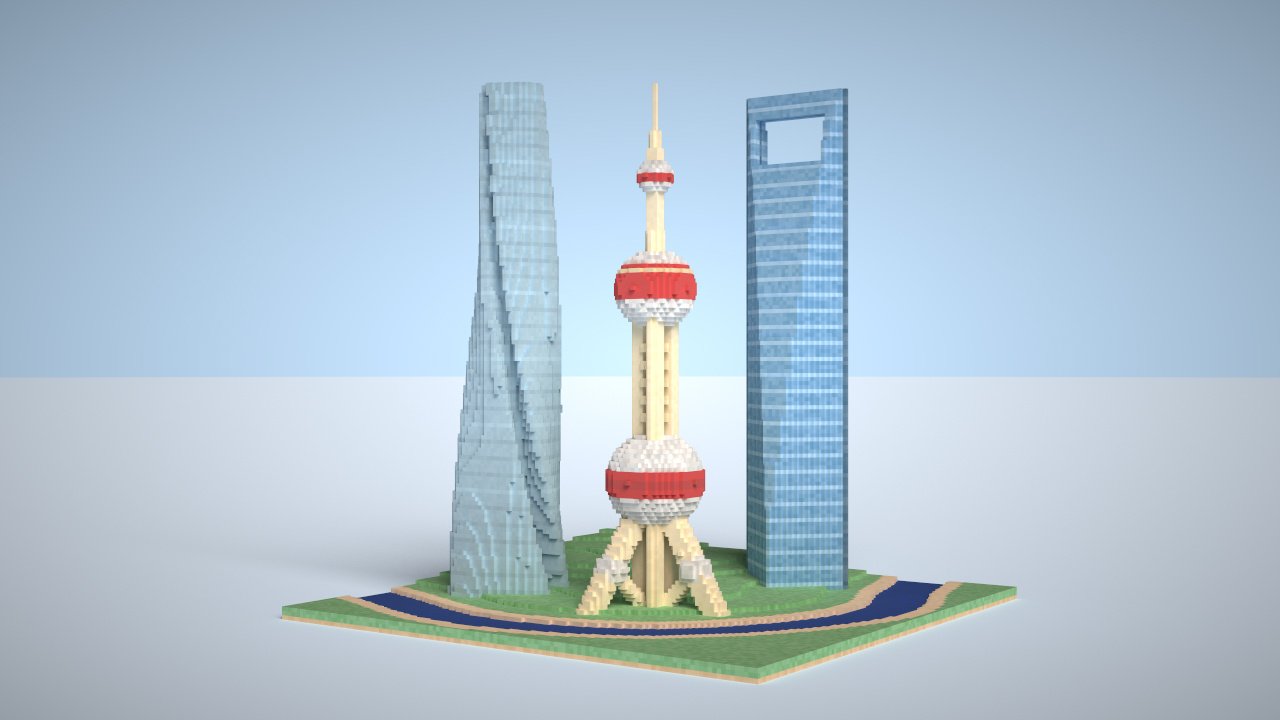
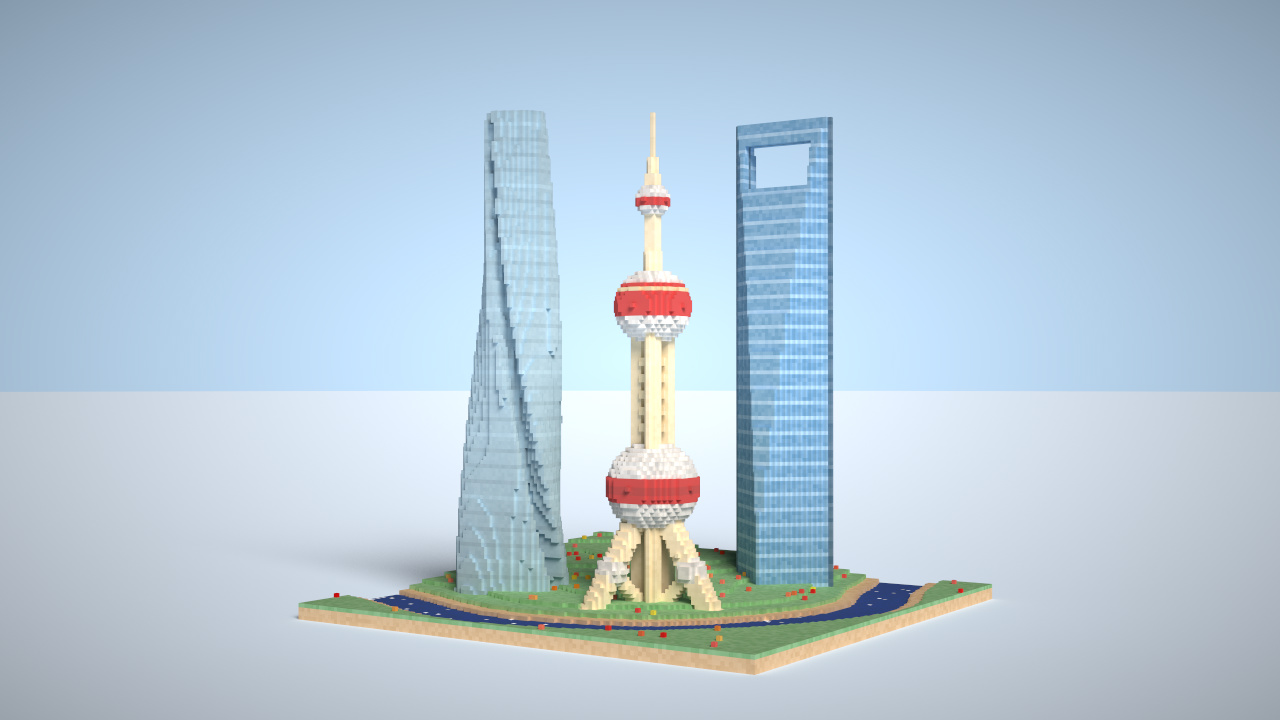
Update Shanghai

Changed region(s): [[0.2188, 0.0917, 0.8125, 0.9472], [0.1875, 0.5194, 0.25, 0.55], [0.7812, 0.5194, 0.8125, 0.55]]

diff --git a/shanghai.py b/shanghai.py
@@ -1,9 +1,9 @@
 from scene import Scene; import taichi as ti; from taichi.math import *
 
-scene = Scene(0, 1.2)
+scene = Scene(0, 1.25)
 scene.set_background_color((0.6, 0.8, 1.0))
 scene.set_floor(-1, (1.3, 1.6, 2.0))
-scene.set_directional_light((1, 1, 0.75), 0.7, (1.0, 0.9, 0.8))
+scene.set_directional_light((1, 1, 0.75), 0.5, (1.0, 0.9, 0.8))
 
 @ti.func
 def set(idx, mat, color, noise = vec3(0)): scene.set_voxel(idx, mat, color + ti.random() * noise)
@@ -26,6 +26,31 @@ def coneY(p0, p1, r0, r1, mat, color, noise = vec3(0)):
 
 @ti.kernel
 def initialize():
+    for x, z in ti.ndrange((-64, 64), (-64, 64)):
+        p1 = vec2(32 - x, 35 - z); p1 = vec2(dot(p1, vec2(1.1, -1)), dot(p1, vec2(1, 1))) / ti.sqrt(2)
+        h = 0.05 * p1.y - 0.00075 * p1.x * p1.x + 0.2 * (ti.sin(0.06 * x + 0.11 * z) + ti.sin(0.09 * x + 0.07 * z))
+        if h >= 0: fill(ivec3(x, -64, z), ivec3(1, 4 + h, 1), 1, vec3(0.25, 0.5, 0.25), 0.1)
+    for x, z in ti.ndrange((-64, 64), (-64, 64)):
+        if scene.get_voxel(ivec3(x, -64, z))[0] == 0:
+            for x1, z1 in ti.ndrange((x - 14, x + 15), (z - 14, z + 15)):
+                if (x1 >= -64 and x1 < 64 and z1 >= -64 and z1 < 64 and (x1 - x) ** 2 + (z1 - z) ** 2 <= 14 ** 2 and
+            scene.get_voxel(ivec3(x1, -64, z1))[0] > 0): set(ivec3(x, -63, z), 1, vec3(0.05, 0.1, 0.3), vec3(0, 0, 0.1))
+    for x, z in ti.ndrange((-64, 64), (-64, 64)):
+        if scene.get_voxel(ivec3(x, -64, z))[0] == 0 and scene.get_voxel(ivec3(x, -63, z))[0] > 0:
+            set(ivec3(x, -64, z), 1, vec3(0.05, 0.1, 0.3), vec3(0, 0, 0.1))
+        else:
+            fill(ivec3(x, -64, z), ivec3(1, 3, 1), 1, vec3(0.7, 0.5, 0.3), 0.1)
+            set(ivec3(x, -61, z), 1, vec3(0.25, 0.5, 0.25), 0.1)
+    for x, z in ti.ndrange((-64, 64), (-64, 64)):
+        for x1, z1 in ti.ndrange((x - 4, x + 5), (z - 4, z + 5)):
+            if (x1 >= -64 and x1 < 64 and z1 >= -64 and z1 < 64 and (x1 - x) ** 2 + (z1 - z) ** 2 <= 4 ** 2
+            and scene.get_voxel(ivec3(x1, -62, z1))[0] == 0): set(ivec3(x, -61, z), 0, vec3(0))
+    for x, z in ti.ndrange((-64, 64), (-64, 64)):
+        y = -64
+        while y < 64 and scene.get_voxel(ivec3(x, y, z))[0] > 0: y += 1
+        if y <= -64 + 2 and ti.random() < 0.02: set(ivec3(x, y - 1, z), 2, vec3(0.3), 0.7)
+        elif y >= -64 + 4 and ti.random() < 0.008: set(ivec3(x, y, z), 1, vec3(0.8, 0.8 * ti.random() ** 4, 0), 0.2)
+    
     c = ivec3(8, 0, 16)
     sphere(c + vec3(0, -32, 0), 11, 1, vec3(0.6), 0.2)
     fill(c + ivec3(-16, -35, -16), ivec3(33, 6, 33), 1, vec3(0.6, 0.1, 0.1), paint = True)
@@ -59,24 +84,5 @@ def initialize():
         if ti.abs(p.x) + ti.abs(p.z) <= 14 and ti.abs(p.z) <= ((63 - p.y) / 127) ** 0.7 * 15 + 1: set(c + p, 1,
             vec3(0.1, 0.2, 0.3) if p.z == 0 else vec3(0.4, 0.6, 0.8) if p.y % 4 == 0 else vec3(0.2, 0.4, 0.6), 0.1)
     fill(c + ivec3(-10, 46, -16), ivec3(20, 12, 32), 0, vec3(0))
-    
-    for x, z in ti.ndrange((-64, 64), (-64, 64)):
-        p1 = vec2(32 - x, 35 - z); p1 = vec2(dot(p1, vec2(1.1, -1)), dot(p1, vec2(1, 1))) / ti.sqrt(2)
-        h = 0.05 * p1.y - 0.00075 * p1.x * p1.x + 0.2 * (ti.sin(0.06 * x + 0.11 * z) + ti.sin(0.09 * x + 0.07 * z))
-        if h >= 0:
-            for y in range(0, 3 + h):
-                set(ivec3(x, -64 + y, z), 1, vec3(0.25, 0.5, 0.25), 0.1)
-    for x, z in ti.ndrange((-64, 64), (-64, 64)):
-        for x1, z1 in ti.ndrange((x - 14, x + 15), (z - 14, z + 15)):
-            if (x1 >= -64 and x1 < 64 and z1 >= -64 and z1 < 64 and (x1 - x) ** 2 + (z1 - z) ** 2 <= 14 ** 2 and scene
-            .get_voxel(ivec3(x1, -64, z1))[0] > 0): set(ivec3(x, -63, z), 1, vec3(0.05, 0.1, 0.3), vec3(0, 0, 0.1))
-    for x, z in ti.ndrange((-64, 64), (-64, 64)):
-        if scene.get_voxel(ivec3(x, -63, z))[0] > 0: set(ivec3(x, -64, z), 1, vec3(0.05, 0.1, 0.3), vec3(0, 0, 0.1))
-        else: fill(ivec3(x, -64, z), ivec3(1, 3, 1), 1, vec3(0.25, 0.5, 0.25), 0.1)
-    for x, z in ti.ndrange((-64, 64), (-64, 64)):
-        for x1, z1 in ti.ndrange((x - 4, x + 5), (z - 4, z + 5)):
-            if (x1 >= -64 and x1 < 64 and z1 >= -64 and z1 < 64 and (x1 - x) ** 2 + (z1 - z) ** 2 <= 4 ** 2 and scene
-            .get_voxel(ivec3(x1, -62, z1))[0] == 0): fill(ivec3(x, -62, z), ivec3(1), 1, vec3(0.9, 0.7, 0.5), 0.1, True)
-    fill(ivec3(-64, -64, -64), ivec3(128, 1, 128), 1, vec3(0.7, 0.5, 0.3), 0.1)
 
 initialize(); scene.finish()
